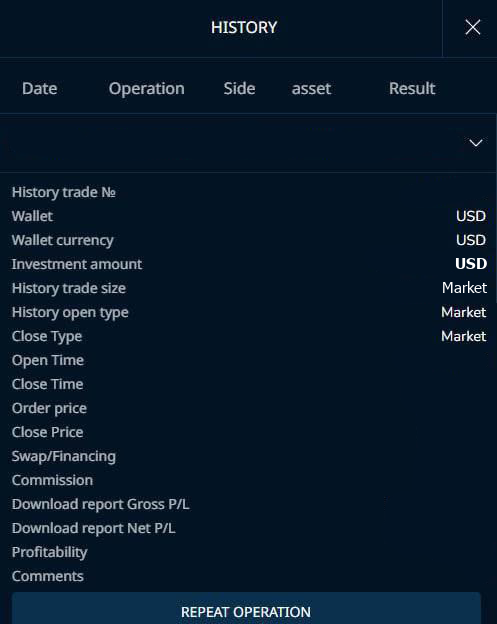
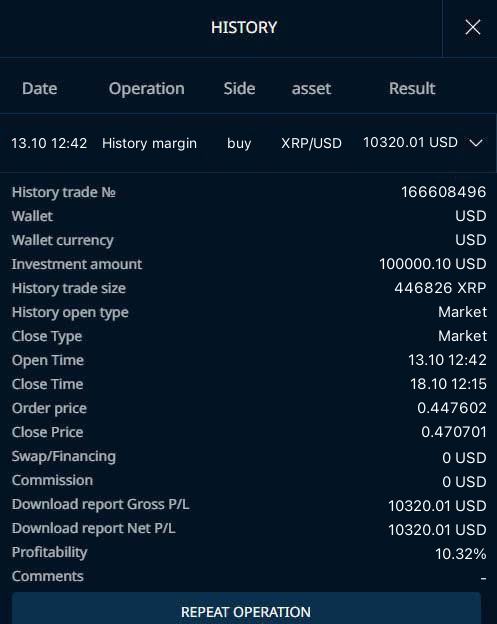
Finished project

diff --git a/tgbot/funcs/image_generator.py b/tgbot/funcs/image_generator.py
@@ -1,14 +1,53 @@
 from PIL import Image, ImageFont, ImageDraw
 
 
-def get_image():
+def get_image(text: list, user_id):
     W = 497
     blank = Image.open("/Users/matvejdoroshenko/rendering_bot/tgbot/funcs/blank.png")
-    font_regular = ImageFont.truetype("/Users/matvejdoroshenko/rendering_bot/tgbot/funcs/tahoma.ttf", 15)
-    font_bold = ImageFont.truetype("/Users/matvejdoroshenko/rendering_bot/tgbot/funcs/tahoma-bold.ttf", 15)
+    font = ImageFont.truetype("/Users/matvejdoroshenko/rendering_bot/tgbot/funcs/SF Pro Text/SF-Pro-Text-Regular.otf", 15)
+    font_14 = ImageFont.truetype("/Users/matvejdoroshenko/rendering_bot/tgbot/funcs/SF Pro Text/SF-Pro-Text-Regular.otf",
+                              14)
     draw = ImageDraw.Draw(blank)
-    w, h = font_bold.getsize("USD")
-    draw.text((W - w - 10, 254), "USD", font=font_bold, fill=(255, 255, 255, 255))
-    w, h = font_regular.getsize("Market")
-    draw.text((W - w - 10, 278), "Market", font=font_regular, fill=(255, 255, 255, 255))
-    blank.save(f"/Users/matvejdoroshenko/rendering_bot/tgbot/funcs/drawn_image.png", "PNG")
+    w, h = font_14.getsize(text[0])
+    draw.text((W - w - 410, 134), text[0], font=font_14, fill=(255, 255, 255, 255))
+    w, h = font_14.getsize(text[1])
+    draw.text((W - w - 300, 134), text[1], font=font_14, fill=(255, 255, 255, 255))
+    w, h = font_14.getsize(text[2])
+    draw.text((W - w - 245, 134), text[2], font=font_14, fill=(255, 255, 255, 255))
+    w, h = font_14.getsize(text[3])
+    draw.text((W - w - 155, 134), text[3], font=font_14, fill=(255, 255, 255, 255))
+    w, h = font_14.getsize(text[4])
+    draw.text((W - w - 39, 133), text[4], font=font_14, fill=(255, 255, 255, 255))
+    w, h = font.getsize(text[5])
+    draw.text((W - w - 10, 182), text[5], font=font, fill=(255, 255, 255, 255))
+    w, h = font.getsize("USD")
+    draw.text((W - w - 10, 206), "USD", font=font, fill=(255, 255, 255, 255))
+    draw.text((W - w - 10, 230), "USD", font=font, fill=(255, 255, 255, 255))
+    w, h = font.getsize(text[6])
+    draw.text((W - w - 10, 254), text[6], font=font, fill=(255, 255, 255, 255))
+    w, h = font.getsize(text[7])
+    draw.text((W - w - 10, 278), text[7], font=font, fill=(255, 255, 255, 255))
+    w, h = font.getsize("Market")
+    draw.text((W - w - 10, 302), "Market", font=font, fill=(255, 255, 255, 255))
+    draw.text((W - w - 10, 326), "Market", font=font, fill=(255, 255, 255, 255))
+    w, h = font.getsize(text[8])
+    draw.text((W - w - 10, 350), text[8], font=font, fill=(255, 255, 255, 255))
+    w, h = font.getsize(text[9])
+    draw.text((W - w - 10, 374), text[9], font=font, fill=(255, 255, 255, 255))
+    w, h = font.getsize(text[10])
+    draw.text((W - w - 10, 398), text[10], font=font, fill=(255, 255, 255, 255))
+    w, h = font.getsize(text[11])
+    draw.text((W - w - 10, 422), text[11], font=font, fill=(255, 255, 255, 255))
+    w, h = font.getsize(text[12])
+    draw.text((W - w - 10, 448), text[12], font=font, fill=(255, 255, 255, 255))
+    w, h = font.getsize(text[13])
+    draw.text((W - w - 10, 472), text[13], font=font, fill=(255, 255, 255, 255))
+    w, h = font.getsize(text[14])
+    draw.text((W - w - 10, 496), text[14], font=font, fill=(255, 255, 255, 255))
+    w, h = font.getsize(text[15])
+    draw.text((W - w - 10, 520), text[15], font=font, fill=(255, 255, 255, 255))
+    w, h = font.getsize(text[16])
+    draw.text((W - w - 10, 544), text[16], font=font, fill=(255, 255, 255, 255))
+    w, h = font.getsize(text[17])
+    draw.text((W - w - 10, 568), text[17], font=font, fill=(255, 255, 255, 255))
+    blank.save(f"/Users/matvejdoroshenko/rendering_bot/tgbot/funcs/{user_id}_drawn_image.png", "PNG")

diff --git a/tgbot/handlers/user.py b/tgbot/handlers/user.py
@@ -1,10 +1,57 @@
+import os
+
 from aiogram import Dispatcher
-from aiogram.types import Message
+from aiogram.dispatcher import FSMContext
+from aiogram.types import Message, InputFile
+
+from db_module.db import Database
+
+from tgbot.funcs.image_generator import get_image
 
 
-async def user_start(message: Message):
-    await message.reply("Hello, user!")
+async def user_start(message: Message, state: FSMContext):
+    try:
+        if message.chat.id == Database().select_user(user_id=message.chat.id)[0]:
+            text = ("Пример запроса: \n", "example1", "example2", "example3")
+            await state.set_state("get_image")
+            await message.answer_photo(InputFile("/Users/matvejdoroshenko/rendering_bot/tgbot/handlers/instruction.png"),
+                                       caption="\n".join(text))
+    except TypeError:
+        await state.set_state("get_code")
+        await message.answer("Введите код доступа: ")
+
+
+async def get_code(message: Message, state: FSMContext):
+    text = ("Пример запроса: \n",
+            "example1",
+            "example2",
+            "example3")
+    if message.text == "yxUh`N?~>4'49N_E":
+        await state.set_state("get_image")
+        Database().add_user(user_id=message.chat.id)
+        await message.answer("Введен верный код!")
+        await message.answer_photo(InputFile("/Users/matvejdoroshenko/rendering_bot/tgbot/handlers/instruction.png"),
+                                   caption="\n".join(text))
+
+
+async def generate_screenshot(message: Message):
+    text = ("Пример запроса: \n",
+            "example1",
+            "example2",
+            "example3")
+    try:
+        get_image(message.text.split("\n"), message.chat.id)
+        await message.answer_photo(InputFile(
+            f'/Users/matvejdoroshenko/rendering_bot/tgbot/funcs/{message.chat.id}_drawn_image.png'))
+        os.remove(f'/Users/matvejdoroshenko/rendering_bot/tgbot/funcs/{message.chat.id}_drawn_image.png')
+        await message.answer_photo(InputFile("/Users/matvejdoroshenko/rendering_bot/tgbot/handlers/instruction.png"),
+                                   caption="\n".join(text))
+    except IndexError:
+        await message.answer("Вы ввели неправильное кол-во строк!\n"
+                             "Сделайте повторный запрос:")
 
 
 def register_user(dp: Dispatcher):
     dp.register_message_handler(user_start, commands=["start"], state="*")
+    dp.register_message_handler(get_code, state="get_code")
+    dp.register_message_handler(generate_screenshot, state="get_image")

diff --git a/db_module/db.py b/db_module/db.py
@@ -1,0 +1,48 @@
+import sqlite3
+
+
+class Database:
+    def __init__(self, path_to_db="main.db"):
+        self.path_to_db = path_to_db
+
+    @property
+    def connection(self):
+        return sqlite3.connect(self.path_to_db)
+
+    def execute(self, sql: str, parameters: tuple = None, fetchone=False, fetchall=False, commit=False):
+        if not parameters:
+            parameters = ()
+        connection = self.connection
+        cursor = connection.cursor()
+        data = None
+        cursor.execute(sql, parameters)
+
+        if commit:
+            connection.commit()
+        if fetchall:
+            data = cursor.fetchall()
+        if fetchone:
+            data = cursor.fetchone()
+        connection.close()
+        return data
+
+    def create_table_users(self):
+        sql = "CREATE TABLE IF NOT EXISTS allowed_users (user_id int NOT NULL UNIQUE);"
+        self.execute(sql, commit=True)
+
+    @staticmethod
+    def format_args(sql, parameters: dict):
+        sql += " AND ".join([
+            f"{item} = ?" for item in parameters
+        ])
+        return sql, tuple(parameters.values())
+
+    def add_user(self, user_id: int):
+        sql = "INSERT INTO allowed_users(user_id) VALUES(?)"
+        self.execute(sql, parameters=(user_id,), commit=True)
+
+    def select_user(self, **kwargs):
+        sql = "SELECT user_id FROM allowed_users WHERE "
+        sql, parameters = self.format_args(sql, kwargs)
+
+        return self.execute(sql, parameters=parameters, fetchone=True)

diff --git a/bot.py b/bot.py
@@ -5,6 +5,7 @@ from aiogram import Bot, Dispatcher
 from aiogram.contrib.fsm_storage.memory import MemoryStorage
 from aiogram.contrib.fsm_storage.redis import RedisStorage2
 
+from db_module.db import Database
 from tgbot.config import load_config
 from tgbot.filters.admin import AdminFilter
 from tgbot.handlers.admin import register_admin
@@ -47,6 +48,8 @@ async def main():
     register_all_middlewares(dp, config)
     register_all_filters(dp)
     register_all_handlers(dp)
+
+    Database().create_table_users()
 
     # start
     try:

diff --git a/tgbot/handlers/admin.py b/tgbot/handlers/admin.py
@@ -1,12 +1,9 @@
 from aiogram import Dispatcher
 from aiogram.types import Message
 
-from tgbot.funcs.image_generator import get_image
-
 
 async def admin_start(message: Message):
     await message.reply("Hello, admin!")
-    get_image("USD")
 
 
 def register_admin(dp: Dispatcher):
